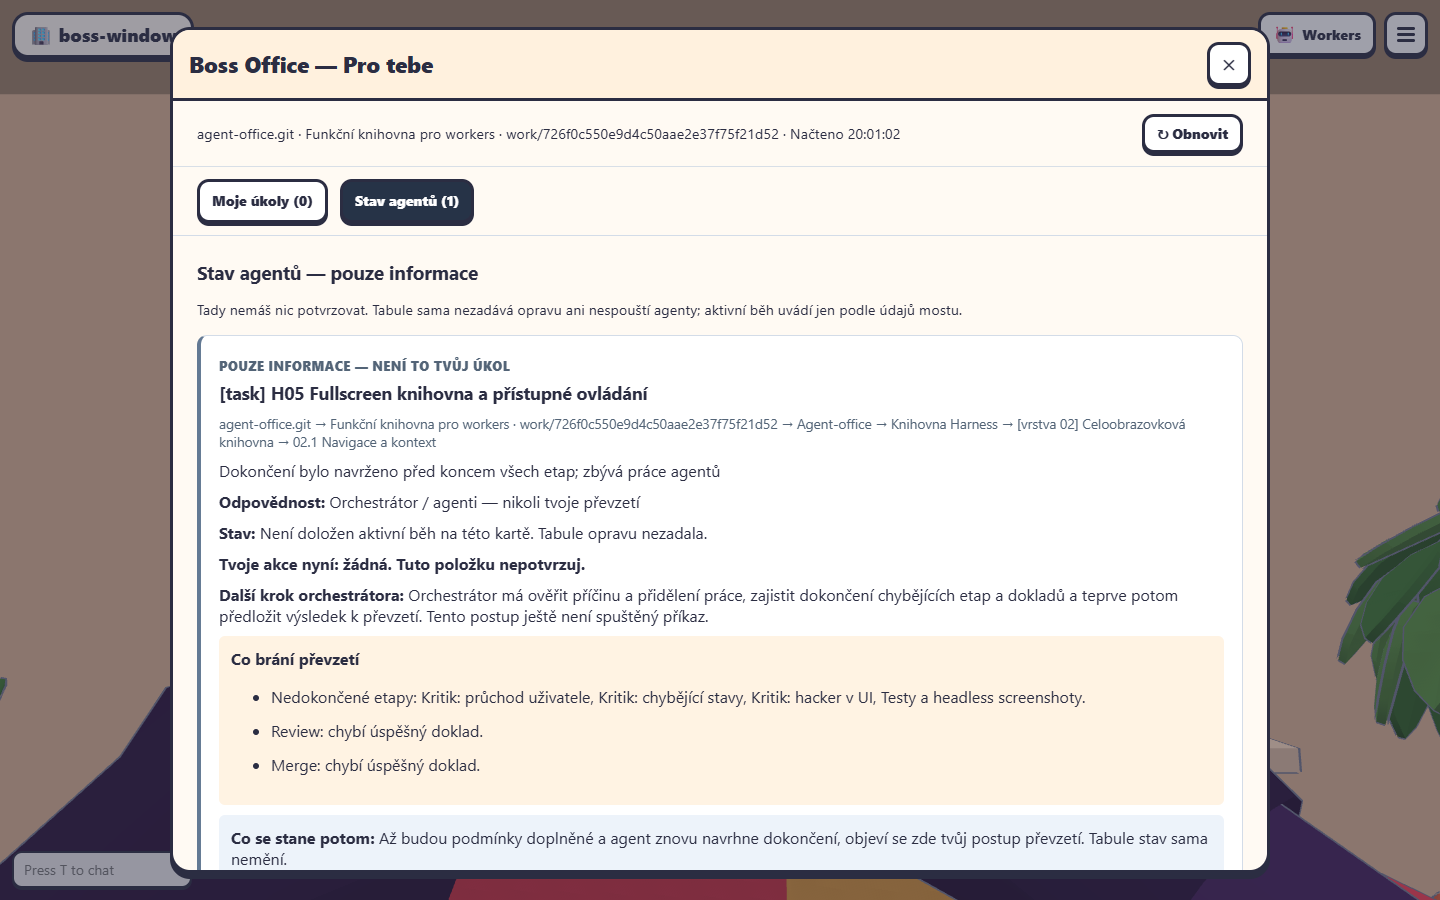
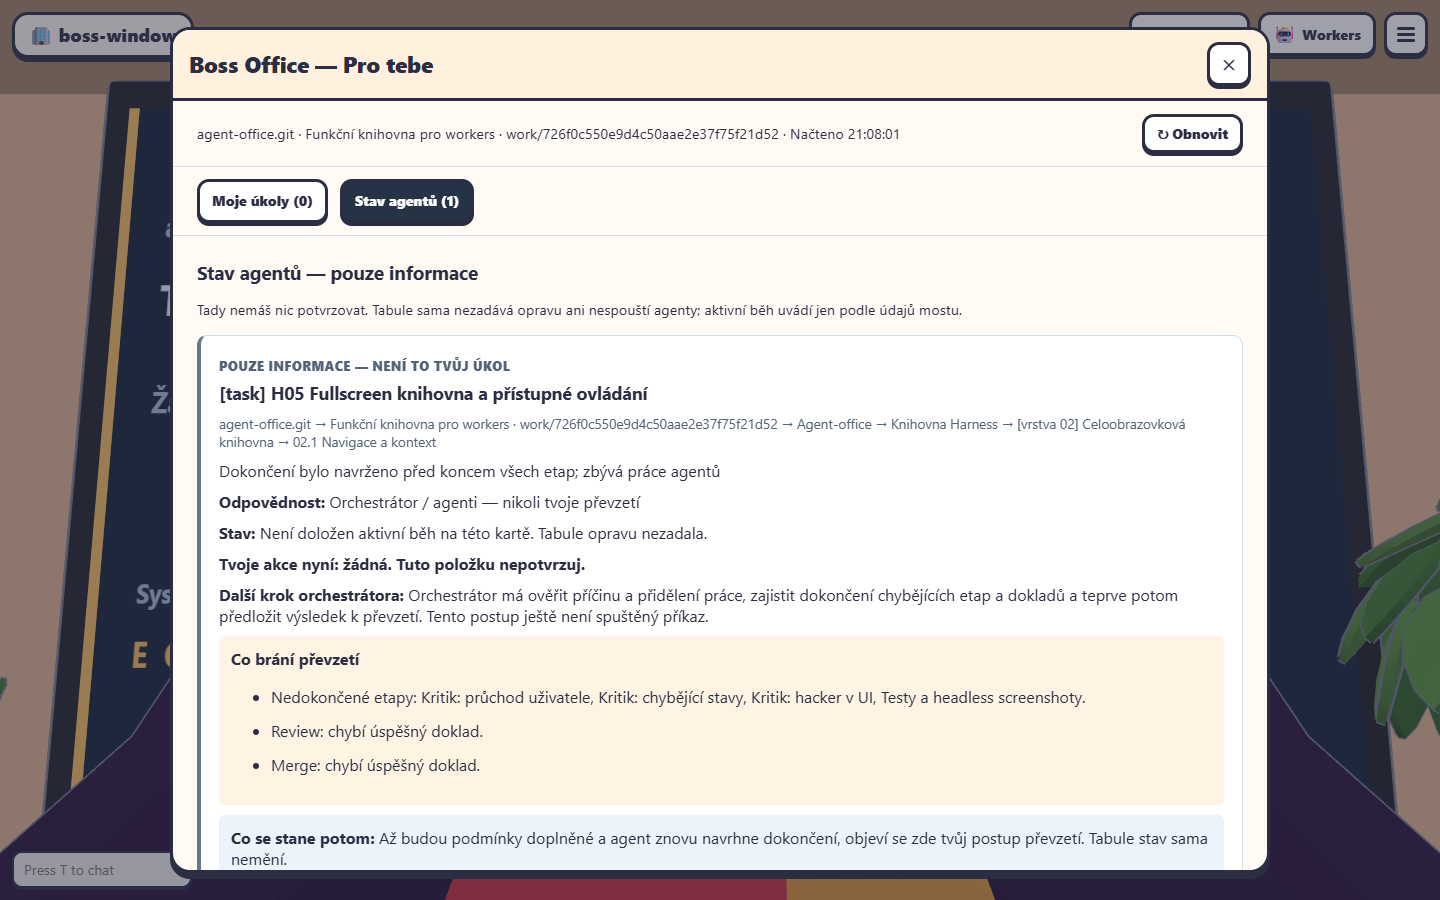
Boss Office: cover entire window and frame above couch (#14)
* feat(boss): add human attention board

* feat(boss): guide human actions and show blockers

* fix(boss): move board above the red couch

* fix(boss): cover window and frame with board

diff --git a/tests/boss-attention-world.test.ts b/tests/boss-attention-world.test.ts
@@ -1,20 +1,25 @@
 import test from 'node:test';
 import assert from 'node:assert/strict';
 import { Vector3 } from 'three';
-import { LOFT } from '../src/shared/layout.js';
+import { LOFT, WINDOWS } from '../src/shared/layout.js';
 import { BOSS_ATTENTION_BOARD, bossAttentionBoard } from '../src/client/features/bossattention/world.js';
 import type { Site } from '../src/client/world/office/fixture.js';
 import type { Interactable } from '../src/client/world/types.js';
 
-test('boss board fits above the red couch and faces the accessible room side', () => {
+test('boss board hides the entire east window including sill and faces the room', () => {
   const interactables: Interactable[] = [];
   const built = bossAttentionBoard({ interactables } as Site);
   const board = built.handle!.bossAttentionBoard;
   const s = BOSS_ATTENTION_BOARD;
   assert.equal(s.z, (LOFT.minZ + LOFT.maxZ) / 2);
-  assert.ok(s.y - s.height / 2 - 0.08 > LOFT.y + 1, 'frame clears the couch backrest');
+  const window = WINDOWS.find(w => w.wall === 'east' && w.u === s.z)!;
+  assert.ok(s.y - s.height / 2 - 0.08 > LOFT.y + 0.55, 'panel clears the seat cushions');
   assert.ok(s.y + s.height / 2 + 0.08 < LOFT.y + LOFT.height, 'frame clears ceiling');
-  assert.ok(s.width + 0.16 < 2.8, 'window edges remain visible');
+  assert.ok(s.width > window.width + 0.2, 'opaque face covers window and wider sill');
+  assert.ok(s.y - s.height / 2 < window.y0 - 0.06, 'face covers lower sill');
+  assert.ok(s.y + s.height / 2 > window.y1, 'face covers top frame');
+  assert.ok(s.x - s.depth / 2 < LOFT.maxX - 0.18, 'panel is in front of sill');
+  assert.ok(s.x + s.depth / 2 >= LOFT.maxX, 'solid backing reaches inner wall, no side gap');
   assert.ok(board.position.x < s.x && s.x < LOFT.maxX, 'face is in front of east frame');
   const normal = new Vector3(0, 0, 1).applyEuler(board.rotation);
   assert.ok(normal.distanceTo(new Vector3(-1, 0, 0)) < 1e-8);

diff --git a/src/client/features/bossattention/world.ts b/src/client/features/bossattention/world.ts
@@ -10,18 +10,18 @@ declare module '../../world/types' {
   }
 }
 
-// Above the red couch at the east window, facing into the Boss Office.
-export const BOSS_ATTENTION_BOARD = { x: LOFT.maxX - 0.19, y: LOFT.y + 1.85, z: (LOFT.minZ + LOFT.maxZ) / 2, width: 2.2, height: 1.15 } as const;
+// Opaque wall-backed panel covering the entire east window, frame and sill behind the couch.
+export const BOSS_ATTENTION_BOARD = { x: LOFT.maxX - 0.13, y: LOFT.y + 1.7, z: (LOFT.minZ + LOFT.maxZ) / 2, width: 3.2, height: 1.8, depth: 0.3 } as const;
 
 export const bossAttentionBoard: Fixture<'bossAttentionBoard'> = (site) => {
   const s = BOSS_ATTENTION_BOARD;
   const group = new THREE.Group();
-  const frame = mesh(roundedBox(s.width + 0.16, s.height + 0.16, 0.08, 0.04), toon('#263347'), s.x, s.y, s.z, false);
+  const frame = mesh(roundedBox(s.width + 0.16, s.height + 0.16, s.depth, 0.04), toon('#263347'), s.x, s.y, s.z, false);
   frame.rotation.y = -Math.PI / 2;
   const face = new THREE.Mesh(new THREE.PlaneGeometry(s.width, s.height), new THREE.MeshBasicMaterial({ color: '#ffffff' }));
-  face.position.set(s.x - 0.045, s.y, s.z);
+  face.position.set(s.x - s.depth / 2 - 0.005, s.y, s.z);
   face.rotation.y = -Math.PI / 2;
-  const it: Interactable = { kind: 'bossattention', x: s.x - 1, y: LOFT.y, z: s.z, radius: 1.8 };
+  const it: Interactable = { kind: 'bossattention', x: s.x - 1.2, y: LOFT.y, z: s.z, radius: 1.8 };
   face.userData.interact = it;
   frame.userData.interact = it;
   group.add(frame, face);

diff --git a/src/client/features/bossattention/screen.ts b/src/client/features/bossattention/screen.ts
@@ -32,8 +32,9 @@ export class AttentionScreen {
     const titles = [...workerNames.map((n) => `${n} — čeká na odpověď`), ...(d?.items.map((i) => i.title) ?? [])];
     titles.slice(0, 3).forEach((title, i) => line(`• ${title}`, 300 + i * 68, 32));
     if (!titles.length) line(view.error || d?.error || 'Žádné ruční hledání karet v projektu.', 316, 30, '#acbed3');
-    line(`Systém / agenti: ${d?.system.length ?? '—'}   ·   celý propojený pracovní prostor`, 558, 26, '#acbed3');
-    line('E  Otevřít tabuli a přejít přímo k problému', 626, 33, '#f6bd60');
+    // Keep the footer above the couch backrest; the opaque panel extends behind it.
+    line(`Systém / agenti: ${d?.system.length ?? '—'}   ·   celý propojený pracovní prostor`, 500, 26, '#acbed3');
+    line('E  Otevřít tabuli a přejít přímo k problému', 560, 33, '#f6bd60');
     this.texture.needsUpdate = true;
   }
 }

diff --git a/README.md b/README.md
@@ -32,7 +32,7 @@ curl -fsSL https://raw.githubusercontent.com/AgentSystemLabs/agent-office/main/i
 
 ## What it is
 
-- **Boss Office — Pro tebe.** Upstairs, press **E** at the board above the red couch at the east window. **Moje úkoly** provides numbered instructions and expected saved outcomes for human questions, eligible completion proposals and worker input. **Stav agentů** lists system blockers separately. Links open the exact Opora card or terminal; answers and confirmation are saved there, not on the board. See [the Boss Office attention board](docs/boss-attention.md).
+- **Boss Office — Pro tebe.** Upstairs, press **E** at the board above the red couch, covering the entire east window and frame. **Moje úkoly** provides numbered instructions and expected saved outcomes for human questions, eligible completion proposals and worker input. **Stav agentů** lists system blockers separately. Links open the exact Opora card or terminal; answers and confirmation are saved there, not on the board. See [the Boss Office attention board](docs/boss-attention.md).
 - **A floor per project.** Ride the elevator, pick one of your GitHub repos, and the office clones it (showing how far along it is) and opens a floor for it. Every worker, board and queue on that floor works in that checkout.
 - **Workers at desks.** Walk up to an empty desk, press **E**, and pick Claude Code, Codex, OpenCode, Grok, Muse, DeepSeek Harness, Pi or Cursor, each with its model and reasoning effort. The agent's live terminal shows on its laptop, and anyone can open it and type.
 - **Talk instead of typing.** Hold **Ctrl+Space** (or the **🎤**) in a worker's terminal or a prompt box and say what you want: it's typed in for you to send. Your browser does the listening, so there's nothing to install.

diff --git a/docs/boss-attention.md b/docs/boss-attention.md
@@ -1,6 +1,6 @@
 # Boss Office — Pro tebe
 
-The board above the Boss Office's red couch at the east window (up the stairs, facing into the room) is your inbox for decisions and answers. Stand in front of the couch, aim at the board and press **E**. The top-right **✕** or **Esc** closes it and returns to mouse-look without another click. The board fits above the couch backrest with window visible around its edges; the couch remains usable.
+The board above the Boss Office's red couch (up the stairs, facing into the room) is your inbox for decisions and answers. Its opaque wall-backed panel covers the entire east window, frame and sill, including from oblique room views. Stand in front of the couch, aim at the board and press **E**. The top-right **✕** or **Esc** closes it and returns to mouse-look without another click. The couch remains usable.
 
 ## What belongs to you
 
@@ -35,6 +35,8 @@ Run `npm run typecheck`, `npm test`, `npm run build`. Focused tests: `node --imp
 This feature does not repair the independent Harness orchestrator identity/lifecycle issues. Those remain separate work.
 
 ## Screenshots
+
+[North oblique view](shots/boss-attention/boss-board-north.png) and [south oblique view](shots/boss-attention/boss-board-south.png) show the opaque panel covering the window and sill, with the footer above the couch backrest.
 
 [Agent status tab](shots/boss-attention/boss-agent-state.png) shows blockers and responsibility without a human confirmation action. Focused guidance tests: `node --import tsx --import=#tests/css --test tests/boss*.test.ts tests/size.test.ts`.
 
